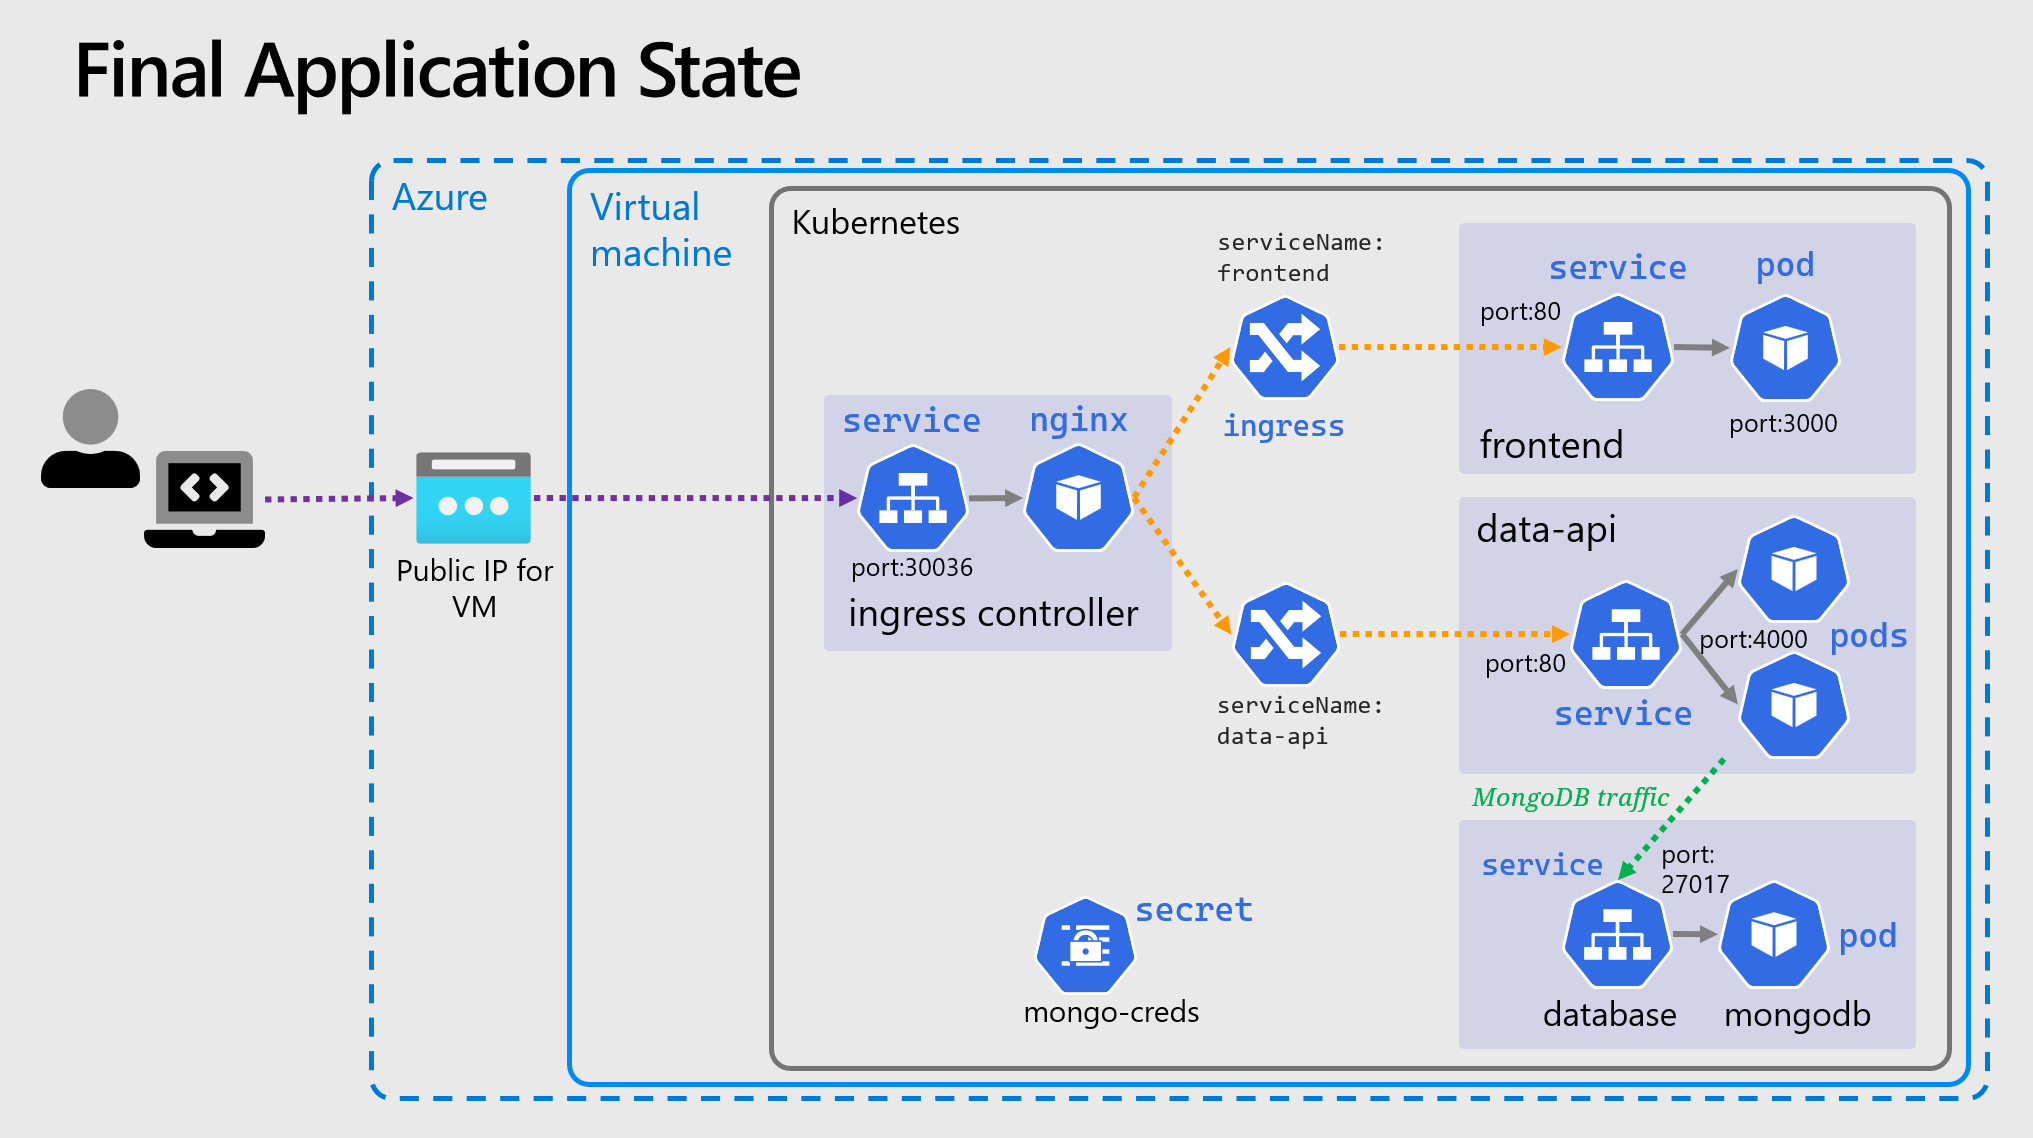
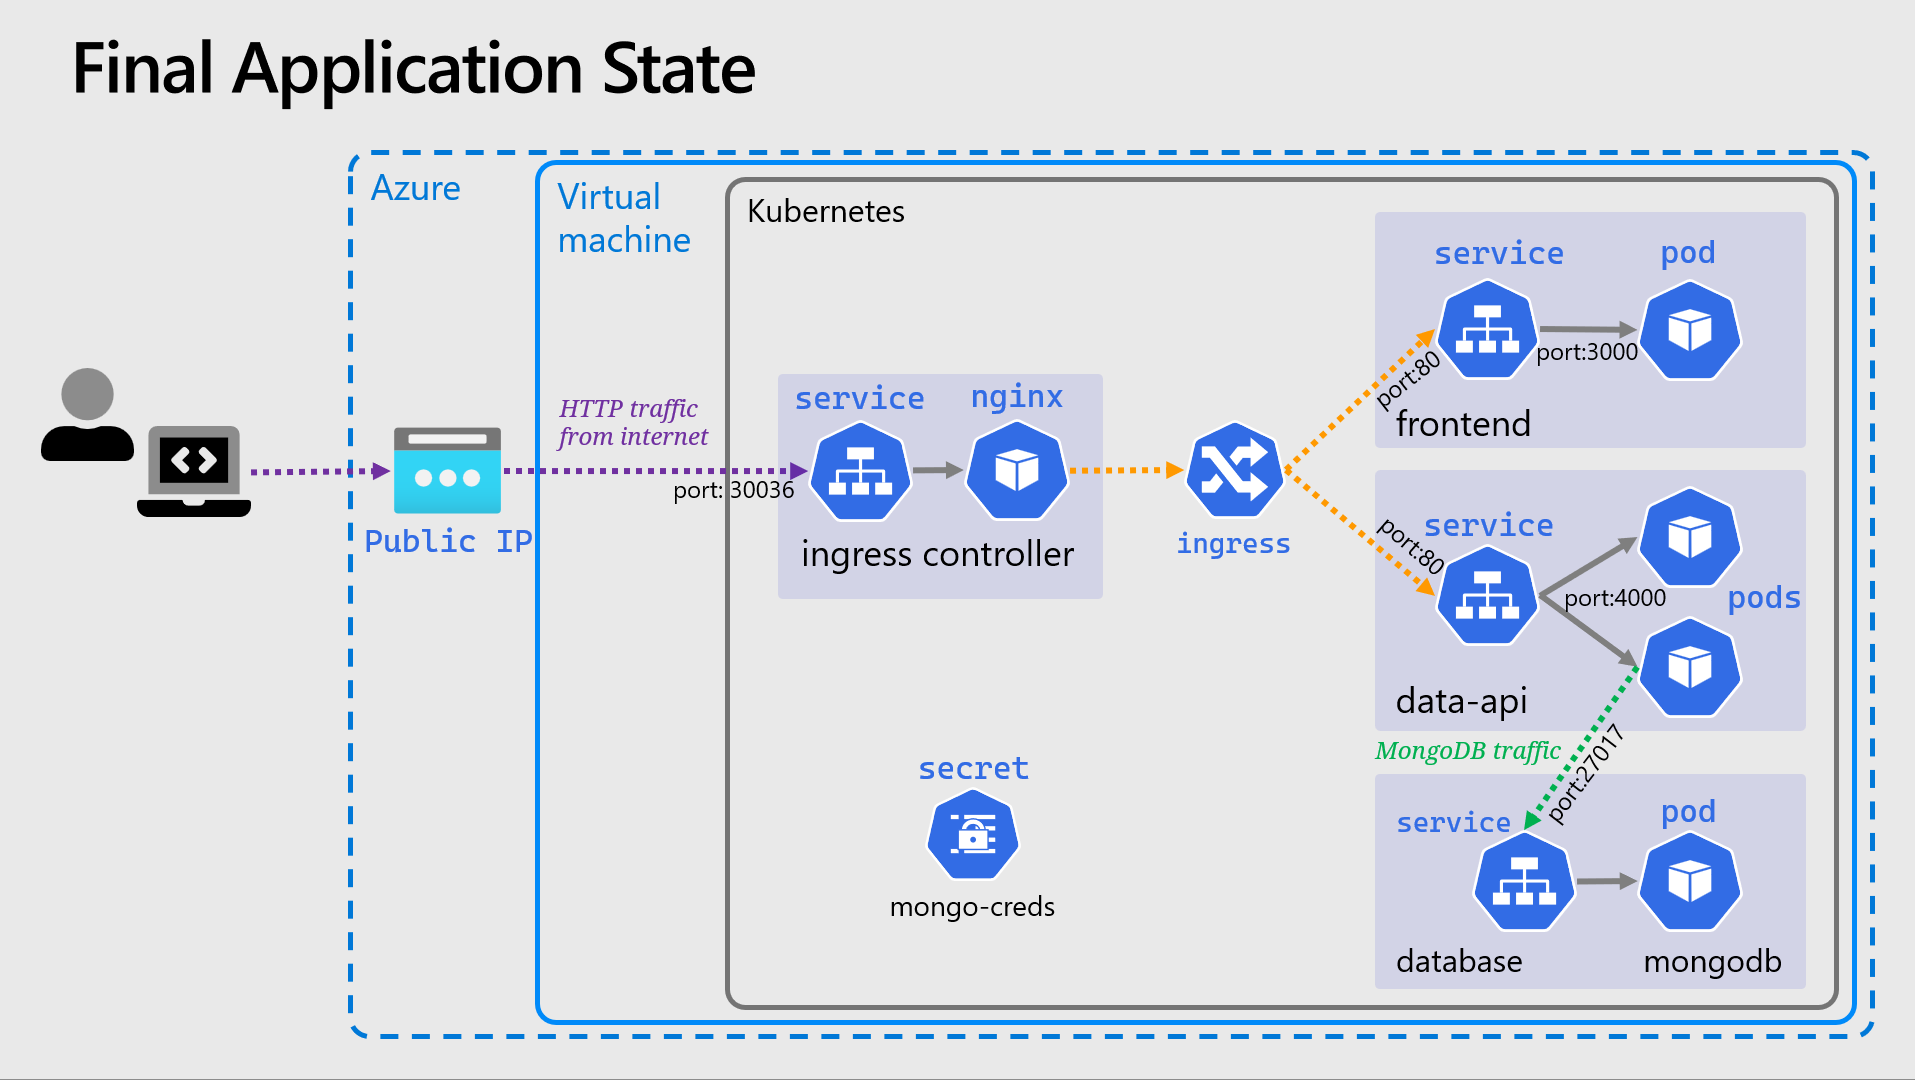
Fix small issues discovered in workshop V2 (#2)
* Add K3s sections

* Fix links back to the readme

* Add nodeport

* Mention nodeports

* Update diagrams

* Add missing context to k3s docs

* Finalize chapters 08,09

* Fix link in intro

* Fix typos

* Fix typo

* Fix link

* Update docs

* Simplify text

* Fix gitops

* Enable mongodb within gitops

* Fix stateful set

* Add smiler app to gitops

* add host

* fix ingress

* Add host

* remove host

* Use right namespace

* use same namespace

* fix docs

* Delete gitops/apps/mongodb directory

* Delete gitops/apps/smilr directory

* Add mongodb to gitops

* Add smilr to gitops

* Fix acr name

* Change replicas

* Fix issues found turning workshop and cleanup resources

* Clarify steps

* add missing index

* remove whitespace

* Refactor text

* Link correctly

* Add clarifying text

* Use correct url

* Update diagrams

* Make url site agnostic

* Remove unused path

* Use a slightly more highres image

diff --git a/readme.md b/readme.md
@@ -2,15 +2,19 @@
 
 This is a hands-on, technical workshop intended / hack to get comfortable working with Kubernetes and deploying & configuring applications. It should take roughly 6~8 hours to complete the main set of sections, but this is very approximate. This workshop is intended partially as a companion to this [Kubernetes Technical Primer](https://github.com/benc-uk/kube-primer) which can be read through, referenced or used to get an initial grounding on the concepts.
 
+>📝 NOTE: if you've never used kubernetes before, it is recommended to read the `Introduction To Kubernetes` section in [Kubernetes Technical Primer PDF](https://github.com/benc-uk/kube-primer/blob/master/Tech%20Primer%20-%20Kubernetes%20(Jan%202022).pdf)
+
 This workshop is very much designed for software engineers & developers with little or zero Kubernetes experience, but wish to get hands on and learn how to deploy and manage applications. It is not focused on the administration, network configuration & day-2 operations of Kubernetes itself, so some aspects may not be relevant to dedicated platform/infrastructure engineers.
 
 The application used will be one that has already been written and built, so no application code will need to be written.
 
-There are two approaches you can take with this workshop below
-
 If you get stuck, the [GitHub repo for this workshop](https://github.com/benc-uk/kube-workshop) contains example and working files for most of the sections
 
-## Azure Kubernetes Service (AKS)
+To start with the workshop, first you need to choose which path you'd like to follow from the next sections.
+
+## Path: Azure Kubernetes Service (AKS)
+
+In this path you'll be using AKS to learn how to use Kubernetes as a managed service in Azure.
 
 > This section assumes a relative degree of comfort in using Azure for sections 2 and 3.
 
@@ -33,7 +37,9 @@ These can be considered bonus sections, and are entirely optional. It is not exp
 - [🤯 Scaling, Stateful Workloads & Helm](09-extra-advanced/readme.md) - Scaling (manual & auto), stateful workloads and persitent volumes, plus more Helm.
 - [🧩 Kustomize & GitOps](10-gitops-flux/readme.md) - Introduction to Kustomize and deploying apps through GitOps with Flux
 
-## Single node K3S cluster on a VM
+## Path: Single node K3S cluster on a VM
+
+In this path you'll learn to use Kubernetes as if you were running it on a on-premises machine, including configuring the computer with the required set up manually.
 
 Sections / modules:
 

diff --git a/k3s/06-frontend/readme.md b/k3s/06-frontend/readme.md
@@ -89,7 +89,7 @@ As before, the there are changes that are required to the supplied YAML, replaci
 Once the two YAMLs have been applied:
 
 - Check the service is up and running with `kubectl get svc frontend`
-- Once it is there, go to the VM IP in your browser, e.g. `http://{VM_IP}/30037/` - the application should load and the Smilr frontend is shown.
+- Once it is there, go to the VM IP in your browser, e.g. `http://{VM_IP}:30037/` - the application should load and the Smilr frontend is shown.
 
 If you want to spend a few minutes using the app, you can go to the "Admin" page, add a new event, the details don't matter but make the date range to include the current date. And try out the feedback view and reports. Or simply be happy the app is functional and move on.
 

diff --git a/k3s/00-pre-reqs/readme.md b/k3s/00-pre-reqs/readme.md
@@ -42,7 +42,7 @@ Although not essential, it's advised to create a `vars.sh` file holding all the 
 
 Sample `vars.sh` file is shown below, feel free to use any values you wish for the resource group, region cluster name etc. To use the file simply source it through bash with `source vars.sh`, do this before moving to the next stage.
 
-> Note: The ACR name must be globally unique and not contain dashes or dots
+> 📝 NOTE: The ACR name must be globally unique and not contain dashes or dots
 
 ```bash
 RES_GROUP="kube-workshop"

diff --git a/k3s/01-cluster/readme.md b/k3s/01-cluster/readme.md
@@ -59,7 +59,7 @@ curl -sL https://aka.ms/InstallAzureCLIDeb | sudo bash
 
 ```
 
-> Note: Login into Azure CLI if you've installed it
+> 📝 NOTE: Login into Azure CLI if you've installed it
 
 Let's connect your kubectl with k3s and allow your user permissions to access the cluster
 
